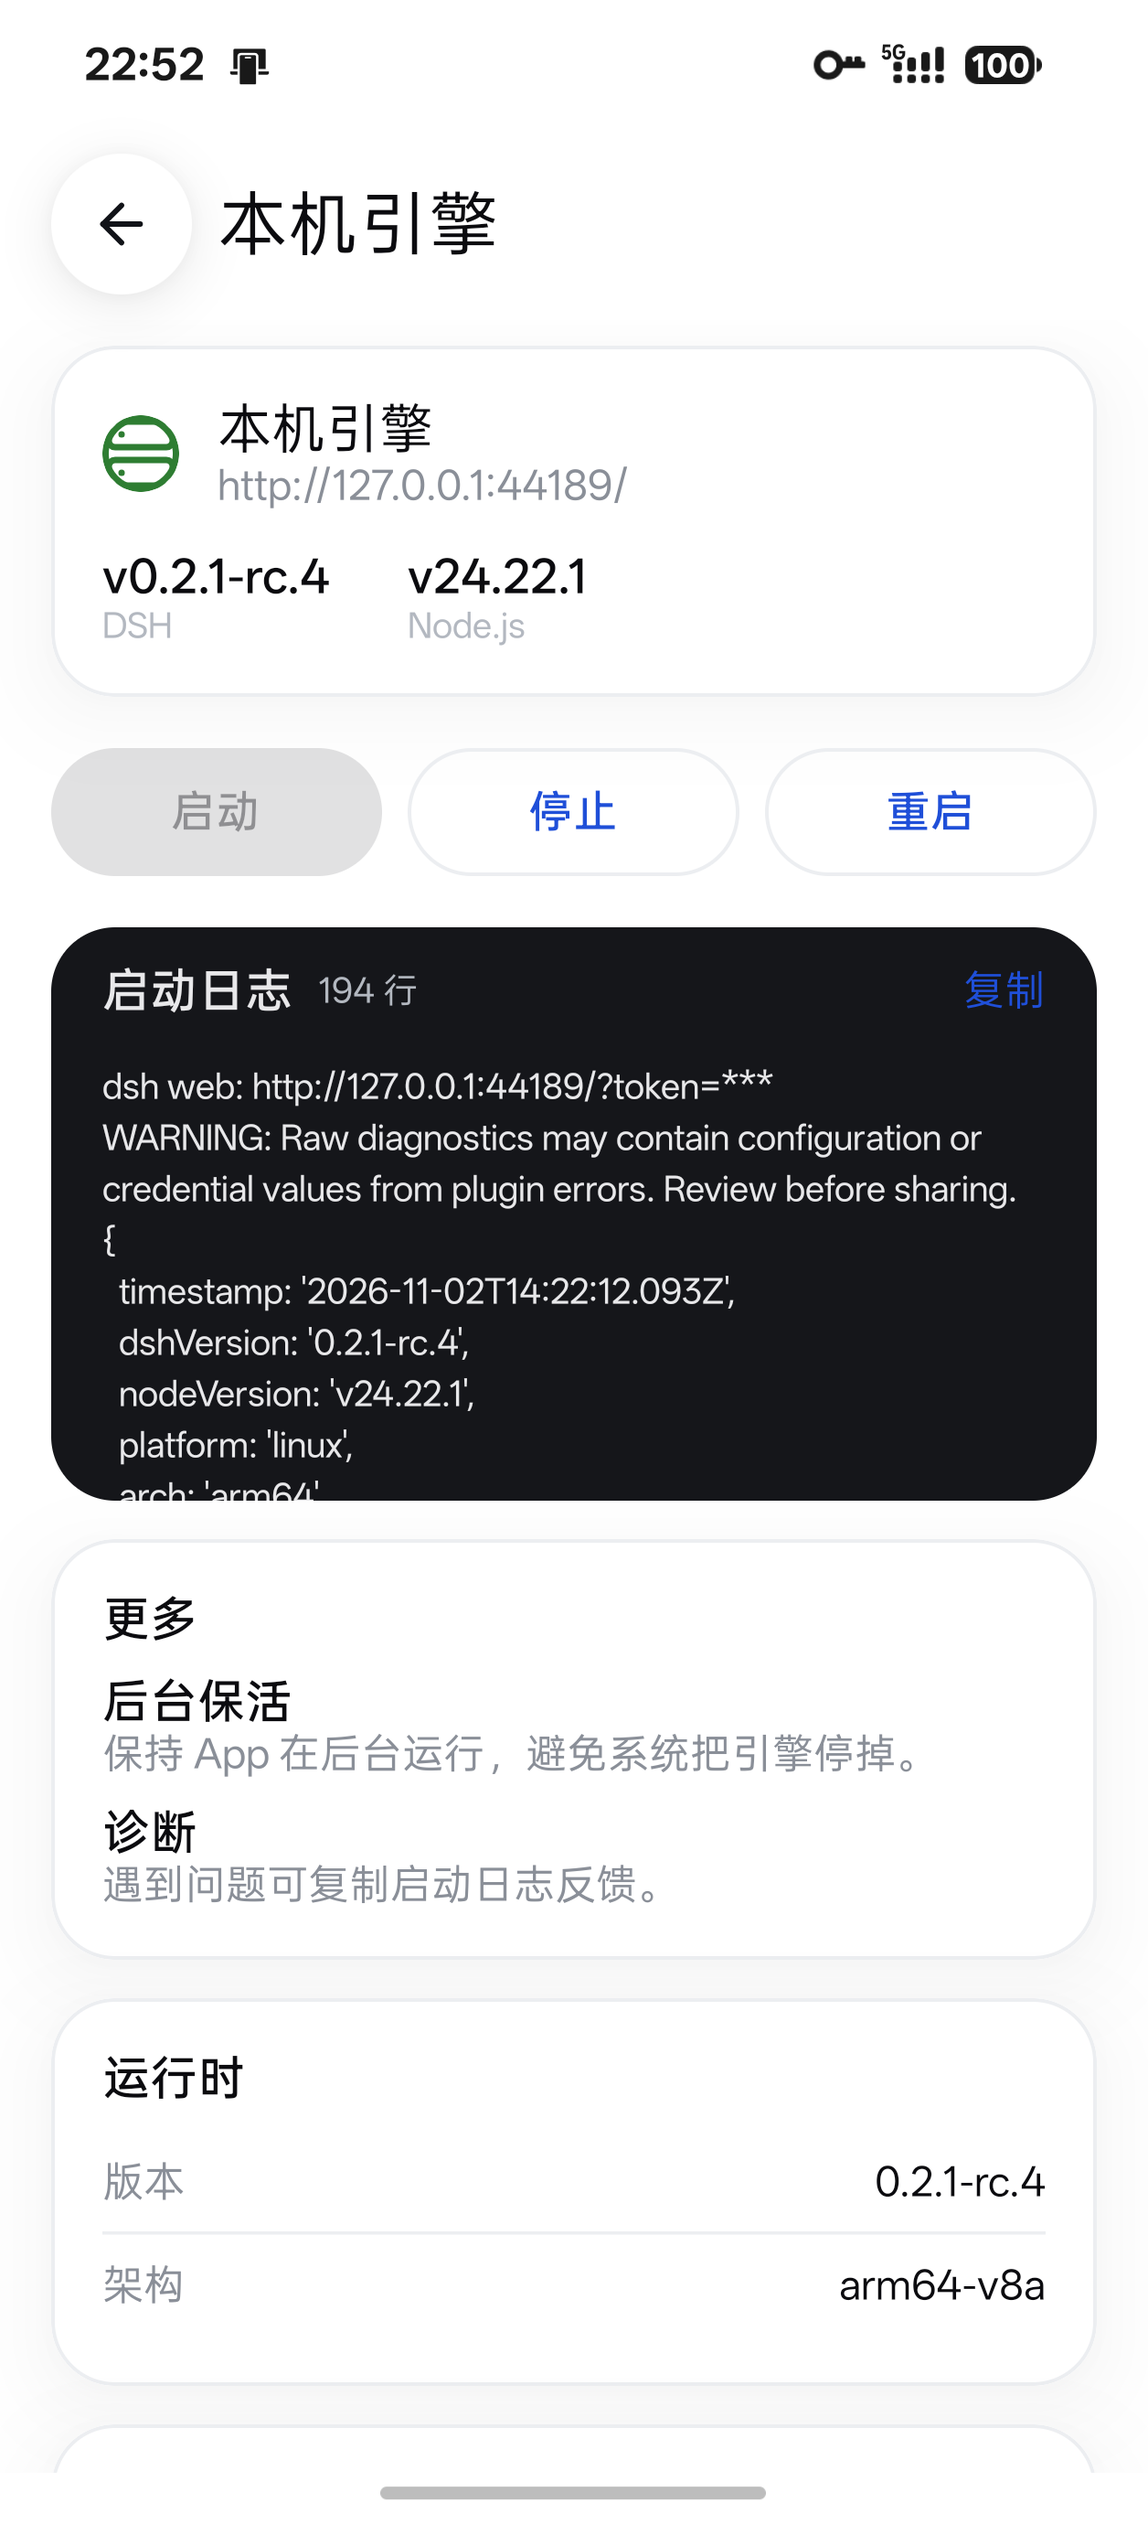
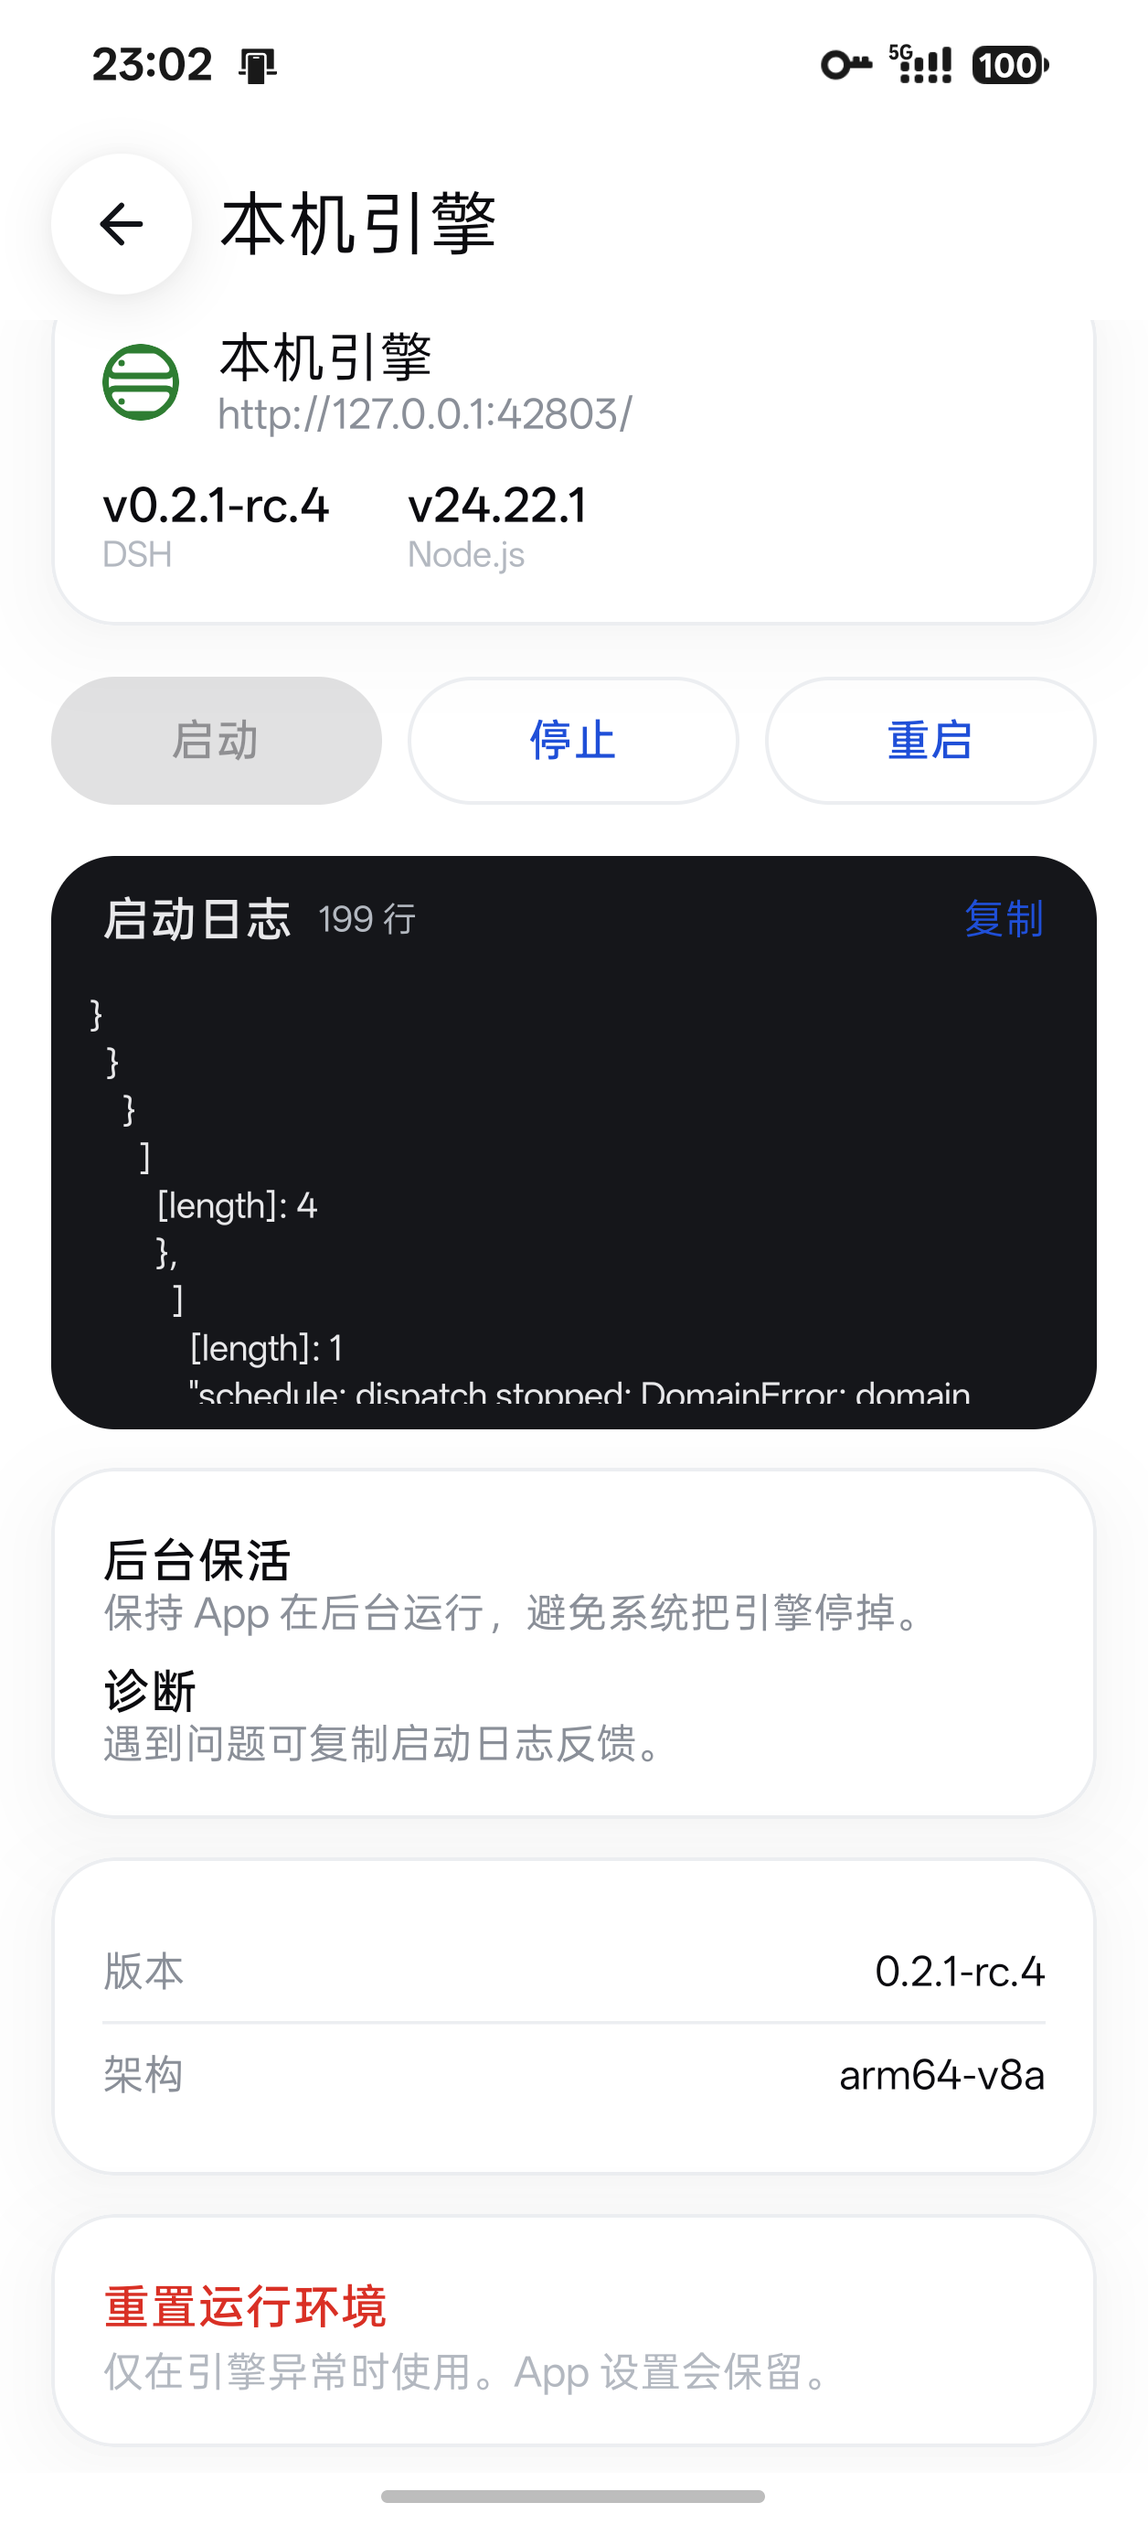
feat(home): 引擎状态改为纯文字动效；引擎页日志展示最新行
- 主页顶栏去掉胶囊：启动中从左滑入，启动成功后 1.8s 从右往左滑出消失
- 引擎页移除「更多」「运行时」标题
- 启动日志补充完整阶段（unpacking/verify/extract/sync/activate/ready、launch method、启动命令、DSH listening、startup 汇总），并展示最新 20 行（最新在上）
- token 打码、ANSI 清除

diff --git a/app/src/main/java/com/dshm/bot/ui/engine/EngineScreen.kt b/app/src/main/java/com/dshm/bot/ui/engine/EngineScreen.kt
@@ -20,6 +20,8 @@ import androidx.compose.foundation.layout.padding
 import androidx.compose.foundation.layout.size
 import androidx.compose.foundation.layout.statusBarsPadding
 import androidx.compose.foundation.layout.width
+import androidx.compose.foundation.lazy.LazyColumn
+import androidx.compose.foundation.lazy.items
 import androidx.compose.foundation.rememberScrollState
 import androidx.compose.foundation.shape.CircleShape
 import androidx.compose.foundation.shape.RoundedCornerShape
@@ -35,10 +37,12 @@ import androidx.compose.material3.Scaffold
 import androidx.compose.material3.Text
 import androidx.compose.material3.TextButton
 import androidx.compose.runtime.Composable
+import androidx.compose.runtime.LaunchedEffect
 import androidx.compose.runtime.getValue
 import androidx.compose.runtime.mutableStateOf
 import androidx.compose.runtime.remember
 import androidx.compose.runtime.setValue
+import androidx.compose.runtime.withFrameNanos
 import androidx.compose.ui.Alignment
 import androidx.compose.ui.Modifier
 import androidx.compose.ui.draw.clip
@@ -324,16 +328,22 @@ private fun TerminalCard(logs: String) {
                     .padding(Dshm.spacing.xs),
             )
         }
-        Box(
+        // 只展示最新 20 行（最新在上），避免超长启动命令把日志井撑满。
+        Column(
             modifier = Modifier
                 .fillMaxWidth()
                 .height(Dshm.spacing.xxl * 6)
-                .verticalScroll(rememberScrollState())
-                .padding(horizontal = Dshm.spacing.lg, vertical = Dshm.spacing.sm),
+                .padding(horizontal = Dshm.spacing.md, vertical = Dshm.spacing.sm),
+            verticalArrangement = Arrangement.spacedBy(Dshm.spacing.xxs),
         ) {
-            SelectionContainer {
+            val tail = if (lines.isEmpty()) {
+                listOf(stringResource(R.string.engine_logs_empty))
+            } else {
+                lines.takeLast(20).reversed()
+            }
+            tail.forEach { line ->
                 Text(
-                    text = lines.joinToString("\n").ifEmpty { stringResource(R.string.engine_logs_empty) },
+                    text = line,
                     style = Dshm.typography.rowPreview.copy(
                         fontFamily = FontFamily.Monospace,
                         fontSize = 11.sp,
@@ -349,12 +359,7 @@ private fun TerminalCard(logs: String) {
 @Composable
 private fun MoreCard() {
     SettingsCard {
-        Text(
-            text = stringResource(R.string.engine_more),
-            style = Dshm.typography.rowTitle,
-            color = Dshm.colors.textPrimary,
-        )
-        Spacer(Modifier.height(Dshm.spacing.sm))
+        Spacer(Modifier.height(Dshm.spacing.xs))
         Text(
             text = stringResource(R.string.engine_background),
             style = Dshm.typography.rowTitle,
@@ -382,12 +387,7 @@ private fun MoreCard() {
 @Composable
 private fun RuntimeInfoCard(version: String, abi: String) {
     SettingsCard {
-        Text(
-            text = stringResource(R.string.engine_runtime_info),
-            style = Dshm.typography.rowTitle,
-            color = Dshm.colors.textPrimary,
-        )
-        Spacer(Modifier.height(Dshm.spacing.sm))
+        Spacer(Modifier.height(Dshm.spacing.xs))
         InfoRow(stringResource(R.string.engine_version), version, mono = true)
         HorizontalDivider(color = Dshm.colors.divider, thickness = Dshm.spacing.hairline)
         InfoRow(stringResource(R.string.engine_arch), abi, mono = true)
@@ -456,4 +456,5 @@ private fun SettingsCard(content: @Composable ColumnScope.() -> Unit) {
         content = content,
     )
 }
+
 

diff --git a/app/src/main/java/com/dshm/bot/data/runtime/RuntimeLauncher.kt b/app/src/main/java/com/dshm/bot/data/runtime/RuntimeLauncher.kt
@@ -6,7 +6,7 @@ import java.util.concurrent.TimeUnit
 
 /**
  * 用 proot 启动 rootfs 里的 `dsh web`，从 stdout 解析 token 得到连接信息。
- * 目前用固定端口 3080；后续可改为探测空闲端口。
+ * 端口默认自动挑选空闲端口；启动各阶段写入 [EngineLog]。
  */
 class RuntimeLauncher(
     context: Context,
@@ -17,11 +17,17 @@ class RuntimeLauncher(
     @Volatile
     private var process: Process? = null
 
+    init {
+        EngineLog.init(appContext)
+    }
+
     /** 启动并等待 token；[guestEnv] 是可选的 KEY=VALUE（如 TZ、API Key）。 */
     fun start(manifest: RuntimeManifest, guestEnv: List<String> = emptyList()): RuntimeEndpoint {
         val rootfs = installer.rootfsDir
         require(rootfs.isDirectory) { "运行时尚未安装" }
 
+        EngineLog.reset()
+        EngineLog.log("launch method: proot")
         val tmp = File(appContext.cacheDir, "proot-tmp").apply { mkdirs() }
         val actualPort = if (port > 0) port else java.net.ServerSocket(0).use { it.localPort }
         val placeholders = mapOf(
@@ -32,6 +38,7 @@ class RuntimeLauncher(
         )
         val argv = ProotCommand.buildArgv(manifest.launchArgv, placeholders, guestEnv)
         val env = ProotCommand.buildEnv(manifest.launchEnv, placeholders)
+        EngineLog.log("launching ${argv.joinToString(" ")}")
 
         val builder = ProcessBuilder(argv).redirectErrorStream(true)
         builder.environment().putAll(env)
@@ -39,14 +46,12 @@ class RuntimeLauncher(
         val started = builder.start()
         process = started
 
-        val logFile = File(appContext.filesDir, "engine.log")
-        logFile.writeText("")
         val queue = java.util.concurrent.LinkedBlockingQueue<String>()
         val tail = ArrayDeque<String>()
         val reader = Thread {
             runCatching {
                 started.inputStream.bufferedReader().forEachLine { line ->
-                    logFile.appendText(line + "\n")
+                    EngineLog.raw(line)
                     queue.put(line)
                 }
             }
@@ -61,9 +66,14 @@ class RuntimeLauncher(
             }
             tail.addLast(line)
             if (tail.size > 30) tail.removeFirst()
-            ProotCommand.parseToken(line)?.let { return it }
+            ProotCommand.parseToken(line)?.let { endpoint ->
+                EngineLog.log("DSH is listening at ${endpoint.baseUrl}")
+                EngineLog.log("startup: app ${EngineLog.elapsedMs()} ms (port $actualPort)")
+                return endpoint
+            }
         }
         val exit = runCatching { started.exitValue() }.getOrNull()
+        EngineLog.log("startup failed: no token (exit=$exit)")
         throw IllegalStateException(
             "引擎启动失败：未收到 token（exit=$exit）\n" + tail.joinToString("\n"),
         )
@@ -72,6 +82,7 @@ class RuntimeLauncher(
     /** 停止引擎：先结束 dsh 进程，再强制结束 proot；同时清理引用。 */
     fun stop() {
         val running = process ?: return
+        EngineLog.log("stopping engine")
         runCatching {
             running.destroy()
             if (!running.waitFor(5, TimeUnit.SECONDS)) running.destroyForcibly()
@@ -82,5 +93,3 @@ class RuntimeLauncher(
     val isRunning: Boolean
         get() = process?.isAlive == true
 }
-
-

diff --git a/app/src/main/java/com/dshm/bot/ui/home/components/HomeTopBar.kt b/app/src/main/java/com/dshm/bot/ui/home/components/HomeTopBar.kt
@@ -1,7 +1,11 @@
 package com.dshm.bot.ui.home.components
 
 import androidx.annotation.DrawableRes
-import androidx.compose.foundation.background
+import androidx.compose.animation.AnimatedVisibility
+import androidx.compose.animation.fadeIn
+import androidx.compose.animation.fadeOut
+import androidx.compose.animation.slideInHorizontally
+import androidx.compose.animation.slideOutHorizontally
 import androidx.compose.foundation.clickable
 import androidx.compose.foundation.layout.Box
 import androidx.compose.foundation.layout.Row
@@ -11,7 +15,6 @@ import androidx.compose.foundation.layout.heightIn
 import androidx.compose.foundation.layout.padding
 import androidx.compose.foundation.layout.size
 import androidx.compose.foundation.layout.width
-import androidx.compose.foundation.shape.CircleShape
 import androidx.compose.foundation.shape.RoundedCornerShape
 import androidx.compose.material3.DropdownMenu
 import androidx.compose.material3.Icon
@@ -23,7 +26,6 @@ import androidx.compose.runtime.remember
 import androidx.compose.runtime.setValue
 import androidx.compose.ui.Alignment
 import androidx.compose.ui.Modifier
-import androidx.compose.ui.draw.clip
 import androidx.compose.ui.res.painterResource
 import androidx.compose.ui.res.stringResource
 import androidx.compose.ui.unit.DpOffset
@@ -62,7 +64,18 @@ fun HomeTopBar(
         )
         if (engineLabel != null) {
             Spacer(Modifier.width(Dshm.spacing.sm))
-            EnginePill(label = engineLabel, onClick = onEngineClick)
+            AnimatedVisibility(
+                visible = true,
+                enter = slideInHorizontally(initialOffsetX = { -it }) + fadeIn(),
+                exit = slideOutHorizontally(targetOffsetX = { -it }) + fadeOut(),
+            ) {
+                Text(
+                    text = engineLabel,
+                    style = Dshm.typography.rowPreview,
+                    color = Dshm.colors.textSecondary,
+                    maxLines = 1,
+                )
+            }
         }
         Spacer(Modifier.weight(1f))
         FloatingIconButton(
@@ -84,33 +97,6 @@ fun HomeTopBar(
                 onCreateGroup = onCreateGroup,
             )
         }
-    }
-}
-
-/** 顶栏里的本机引擎状态胶囊：运行中/启动中/安装中/失败，点击进入引擎页。 */
-@Composable
-private fun EnginePill(label: String, onClick: () -> Unit) {
-    Row(
-        modifier = Modifier
-            .clip(RoundedCornerShape(Dshm.radius.pill))
-            .background(Dshm.colors.surfaceMuted)
-            .clickable(onClick = onClick)
-            .padding(horizontal = Dshm.spacing.md, vertical = Dshm.spacing.xs),
-        verticalAlignment = Alignment.CenterVertically,
-    ) {
-        Box(
-            modifier = Modifier
-                .size(Dshm.spacing.xs)
-                .clip(CircleShape)
-                .background(Dshm.colors.accent),
-        )
-        Spacer(Modifier.width(Dshm.spacing.xs))
-        Text(
-            text = label,
-            style = Dshm.typography.rowPreview,
-            color = Dshm.colors.textSecondary,
-            maxLines = 1,
-        )
     }
 }
 

diff --git a/app/src/main/java/com/dshm/bot/DshmBotApp.kt b/app/src/main/java/com/dshm/bot/DshmBotApp.kt
@@ -14,6 +14,7 @@ import androidx.compose.runtime.Composable
 import androidx.compose.runtime.LaunchedEffect
 import androidx.compose.runtime.getValue
 import androidx.compose.runtime.mutableStateOf
+import androidx.compose.runtime.remember
 import androidx.compose.runtime.saveable.rememberSaveable
 import androidx.compose.runtime.setValue
 import androidx.compose.ui.Modifier
@@ -90,8 +91,21 @@ fun DshmBotApp(
         }
     }
 
-    // 顶栏只显示「启动中」：运行中后不再占用位置（用户要求）。
-    val enginePill = if (engineState is RuntimeState.Starting) stringResource(R.string.engine_value_starting) else null
+    // 顶栏只用纯文字提示启动过程：启动中从左滑入，成功后从右往左滑出消失。
+    val startingText = stringResource(R.string.home_engine_starting)
+    val successText = stringResource(R.string.home_engine_started)
+    var engineNotice by remember { mutableStateOf<String?>(null) }
+    LaunchedEffect(engineState) {
+        when (engineState) {
+            is RuntimeState.Starting -> engineNotice = startingText
+            is RuntimeState.Running -> if (engineNotice == startingText) {
+                engineNotice = successText
+                kotlinx.coroutines.delay(1_800)
+                engineNotice = null
+            }
+            else -> Unit
+        }
+    }
 
     val screenKey = when {
         !onboardingDone -> SCREEN_ONBOARDING
@@ -183,7 +197,7 @@ fun DshmBotApp(
                         onCreateGroup = {},
                         onOpenSearch = { searchOpen = true },
                         onOpenSettings = { settingsOpen = true },
-                        engineLabel = enginePill,
+                        engineLabel = engineNotice,
                         onEngineClick = { engineOpen = true },
                     )
                 }
@@ -229,12 +243,13 @@ fun DshmBotApp(
                 onCreateGroup = {},
                 onOpenSearch = { searchOpen = true },
                 onOpenSettings = { settingsOpen = true },
-                        engineLabel = enginePill,
+                        engineLabel = engineNotice,
                         onEngineClick = { engineOpen = true },
             )
         }
     }
 }
+
 
 
 

diff --git a/app/src/main/java/com/dshm/bot/data/runtime/RuntimeInstaller.kt b/app/src/main/java/com/dshm/bot/data/runtime/RuntimeInstaller.kt
@@ -1,6 +1,7 @@
 package com.dshm.bot.data.runtime
 
 import android.content.Context
+import android.os.SystemClock
 import org.apache.commons.compress.archivers.tar.TarArchiveInputStream
 import org.tukaani.xz.XZInputStream
 import java.io.BufferedInputStream
@@ -43,6 +44,10 @@ class RuntimeInstaller(context: Context) {
     ): String {
         // zip 里带着 CI 生成的 manifest（哈希对应本次构建的 rootfs），优先用它。
         val effective = readEmbeddedManifest(zipFile) ?: manifest
+        EngineLog.init(appContext)
+        EngineLog.reset()
+        EngineLog.log("unpacking runtime ${effective.runtimeVersion} (${effective.abi})")
+        val startedAt = SystemClock.elapsedRealtime()
         baseDir.mkdirs()
         stagingDir.deleteRecursively()
         stagingDir.mkdirs()
@@ -77,18 +82,26 @@ class RuntimeInstaller(context: Context) {
                 }
             }
 
+            val verifyAt = SystemClock.elapsedRealtime()
+            EngineLog.log("install verify: ${verifyAt - startedAt} ms")
             onProgress(0, "解压中")
             extractTarXz(tarFile, stagingDir, effective.entriesTotal, onProgress)
+            EngineLog.log("install extract: ${SystemClock.elapsedRealtime() - verifyAt} ms")
         } finally {
             tarFile.delete()
         }
 
+        val syncAt = SystemClock.elapsedRealtime()
         rootfsDir.deleteRecursively()
         if (!stagingDir.renameTo(rootfsDir)) {
             stagingDir.copyRecursively(rootfsDir, overwrite = true)
             stagingDir.deleteRecursively()
         }
+        EngineLog.log("install sync: ${SystemClock.elapsedRealtime() - syncAt} ms")
+        val activateAt = SystemClock.elapsedRealtime()
         versionFile.writeText(effective.runtimeVersion)
+        EngineLog.log("install activate: ${SystemClock.elapsedRealtime() - activateAt} ms")
+        EngineLog.log("runtime ready in ${(SystemClock.elapsedRealtime() - startedAt) / 1000}s")
         onProgress(100, "已安装")
         return effective.runtimeVersion
     }

diff --git a/app/src/main/java/com/dshm/bot/data/runtime/EngineLog.kt b/app/src/main/java/com/dshm/bot/data/runtime/EngineLog.kt
@@ -1,0 +1,48 @@
+package com.dshm.bot.data.runtime
+
+import android.content.Context
+import android.os.SystemClock
+import java.io.File
+
+/**
+ * 引擎日志：所有启动阶段都写到这里，格式对齐 dsh-Go 的 `[mono=…ms] [dsh-app] …`。
+ * 文件是 `filesDir/engine.log`，引擎页直接读取展示。
+ */
+object EngineLog {
+    private const val TAG = "[dshm]"
+    private var file: File? = null
+    private var startAt = 0L
+    private val lock = Any()
+
+    fun init(context: Context) {
+        if (file != null) return
+        file = File(context.applicationContext.filesDir, "engine.log")
+        startAt = SystemClock.elapsedRealtime()
+    }
+
+    /** 新一次启动：清空旧日志并重新计时。 */
+    fun reset() {
+        synchronized(lock) {
+            startAt = SystemClock.elapsedRealtime()
+            file?.writeText("")
+        }
+    }
+
+    fun log(message: String) {
+        val ms = SystemClock.elapsedRealtime()
+        val target = file ?: return
+        synchronized(lock) {
+            target.appendText("[mono=${ms}ms] $TAG $message\n")
+        }
+    }
+
+    /** 原样追加引擎输出（token 由展示层打码）。 */
+    fun raw(line: String) {
+        val target = file ?: return
+        synchronized(lock) {
+            target.appendText(line + "\n")
+        }
+    }
+
+    fun elapsedMs(): Long = SystemClock.elapsedRealtime() - startAt
+}
